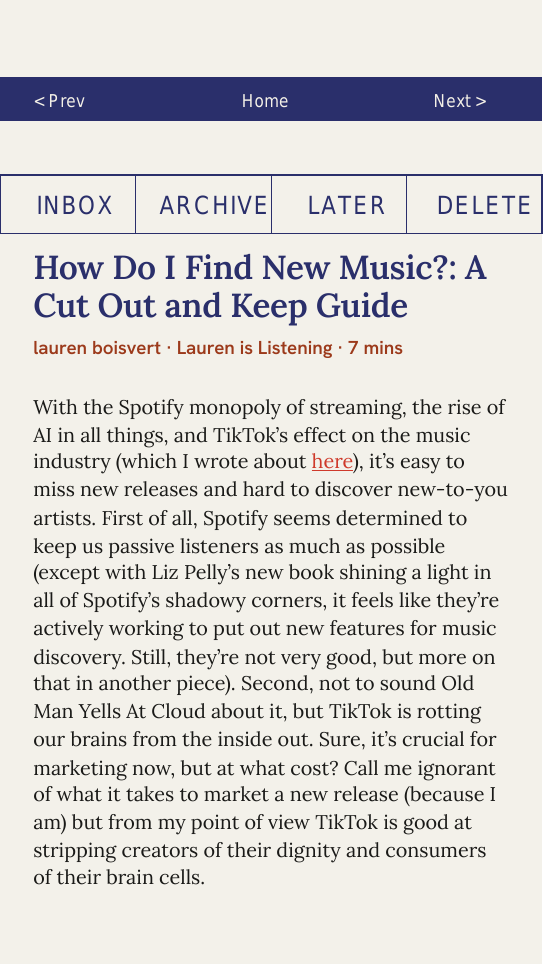
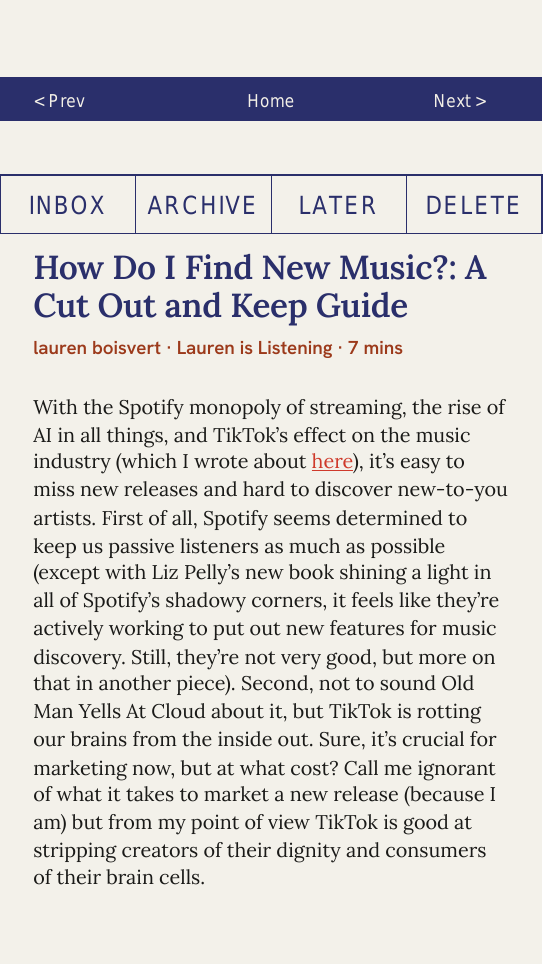
Center action-band labels with real Helvetica metrics; default deploy to /Readwise
The action band stamped INBOX/ARCHIVE/LATER/DELETE off-center because it
estimated text width as a flat 0.5em per glyph, which is wrong for Helvetica's
proportional glyphs (I=278, W=944). Add helvetica_text_width() using the
standard AFM advance widths and use it to center both the action labels and the
Home nav label, replacing the hardcoded fudge.

Also change the default reMarkable deploy folder from /RMDev/Reader to /Readwise
(root) in config, wizard, README, and test, matching where the PDFs should live.
Refresh the README screenshots to show the corrected band.

diff --git a/rmreader/src/postprocess.rs b/rmreader/src/postprocess.rs
@@ -48,6 +48,35 @@ pub fn finalize_pdf(
     Ok(())
 }
 
+/// Width of `text` in PDF points when set in Helvetica at `font_size`, using the
+/// standard Helvetica AFM advance widths (per-1000-em). A flat 0.5em-per-glyph
+/// estimate is wrong for Helvetica's proportional glyphs (`I` is 278, `W` is 944)
+/// and visibly off-centres stamped words like "ARCHIVE", so measure properly.
+fn helvetica_text_width(text: &str, font_size: f32) -> f32 {
+    let advance = |c: char| -> u16 {
+        match c {
+            ' ' => 278, '!' => 278, '"' => 355, '#' => 556, '$' => 556, '%' => 889,
+            '&' => 667, '\'' => 191, '(' => 333, ')' => 333, '*' => 389, '+' => 584,
+            ',' => 278, '-' => 333, '.' => 278, '/' => 278,
+            '0'..='9' => 556,
+            ':' => 278, ';' => 278, '<' => 584, '=' => 584, '>' => 584, '?' => 556, '@' => 1015,
+            'A' => 667, 'B' => 667, 'C' => 722, 'D' => 722, 'E' => 667, 'F' => 611, 'G' => 778,
+            'H' => 722, 'I' => 278, 'J' => 500, 'K' => 667, 'L' => 556, 'M' => 833, 'N' => 722,
+            'O' => 778, 'P' => 667, 'Q' => 778, 'R' => 722, 'S' => 667, 'T' => 611, 'U' => 722,
+            'V' => 667, 'W' => 944, 'X' => 667, 'Y' => 667, 'Z' => 611,
+            '[' => 278, '\\' => 278, ']' => 278, '^' => 469, '_' => 556, '`' => 333,
+            'a' => 556, 'b' => 556, 'c' => 500, 'd' => 556, 'e' => 556, 'f' => 278, 'g' => 556,
+            'h' => 556, 'i' => 222, 'j' => 222, 'k' => 500, 'l' => 222, 'm' => 833, 'n' => 556,
+            'o' => 556, 'p' => 556, 'q' => 556, 'r' => 333, 's' => 500, 't' => 278, 'u' => 556,
+            'v' => 500, 'w' => 722, 'x' => 500, 'y' => 500, 'z' => 500,
+            '{' => 334, '|' => 260, '}' => 334, '~' => 584,
+            _ => 556,
+        }
+    };
+    let units: u32 = text.chars().map(|c| advance(c) as u32).sum();
+    units as f32 / 1000.0 * font_size
+}
+
 /// Parse "#RRGGBB" into PDF rgb components (0.0..1.0).
 fn hex_rgb(s: &str) -> Option<(f32, f32, f32)> {
     let h = s.trim().trim_start_matches('#');
@@ -170,7 +199,7 @@ fn try_finalize_pdf(
     });
 
     let home = pages[0];
-    let home_x = page_w * 0.5 - 14.0; // ~"Home" centered at midpage
+    let home_x = page_w * 0.5 - helvetica_text_width("Home", 8.5) / 2.0; // "Home" centred at midpage
     let next_x = page_w * 0.80;
     // A filled nav bar in the top band — below the ~36pt the device toolbar overlays
     // and above the content (which starts at the @page top margin, 92pt). The device's
@@ -249,7 +278,7 @@ fn try_finalize_pdf(
             let col_x = col_w * i as f32;
             // Uppercase so it reads clearly on a small device.
             let label = kind.to_uppercase();
-            let text_w = 0.5 * label_font_size * label.len() as f32;
+            let text_w = helvetica_text_width(&label, label_font_size);
             let text_x = col_x + (col_w - text_w) / 2.0;
             content.push_str(&format!(
                 "q {br:.3} {bg:.3} {bb:.3} rg BT /NAVF {label_font_size:.1} Tf {text_x:.2} {label_baseline_y:.2} Td ({label}) Tj ET Q\n"

diff --git a/rmreader/tests/config.rs b/rmreader/tests/config.rs
@@ -130,19 +130,19 @@ token = "t"
 }
 
 #[test]
-fn deploy_folders_default_under_rmdev() {
+fn deploy_folders_default_to_readwise() {
     let toml = "device=\"paper-pro-move\"\noutput_dir=\".\"\n[readwise]\ntoken=\"x\"\n[deploy]\nbackend=\"rmapi\"\n";
     let cfg: Config = toml::from_str(toml).unwrap();
-    assert_eq!(cfg.deploy.library_folder, "/RMDev/Reader");
-    assert_eq!(cfg.deploy.feed_folder, "/RMDev/Reader");
+    assert_eq!(cfg.deploy.library_folder, "/Readwise");
+    assert_eq!(cfg.deploy.feed_folder, "/Readwise");
     // Also verify Default impl matches
     assert_eq!(
         rmreader::config::DeployConfig::default().library_folder,
-        "/RMDev/Reader"
+        "/Readwise"
     );
     assert_eq!(
         rmreader::config::DeployConfig::default().feed_folder,
-        "/RMDev/Reader"
+        "/Readwise"
     );
 }
 

diff --git a/rmreader/src/wizard.rs b/rmreader/src/wizard.rs
@@ -93,7 +93,7 @@ pub fn run_wizard(
     let (library_folder, feed_folder) = if deploy_backend == "rmapi" {
         let lf: String = Input::new()
             .with_prompt("reMarkable folder for Library")
-            .default("/RMDev/Reader".into())
+            .default("/Readwise".into())
             .interact_text()?;
         let ff: String = Input::new()
             .with_prompt("reMarkable folder for Feed")

diff --git a/rmreader/src/config.rs b/rmreader/src/config.rs
@@ -102,7 +102,7 @@ fn default_backend() -> String {
     "none".into()
 }
 fn default_reader_folder() -> String {
-    "/RMDev/Reader".into()
+    "/Readwise".into()
 }
 impl Default for DeployConfig {
     fn default() -> Self {

diff --git a/rmreader/README.md b/rmreader/README.md
@@ -151,8 +151,8 @@ enabled = true                     # fetch + embed content images (color)
 
 [deploy]
 backend = "rmapi"                  # or "none" to just write PDFs locally
-library_folder = "/RMDev/Reader"   # reMarkable cloud folder for Library.pdf
-feed_folder = "/RMDev/Reader"      # reMarkable cloud folder for Feed.pdf
+library_folder = "/Readwise"       # reMarkable cloud folder for Library.pdf
+feed_folder = "/Readwise"          # reMarkable cloud folder for Feed.pdf
 ```
 
 Set `backend = "none"` to generate the PDFs on disk without touching the
